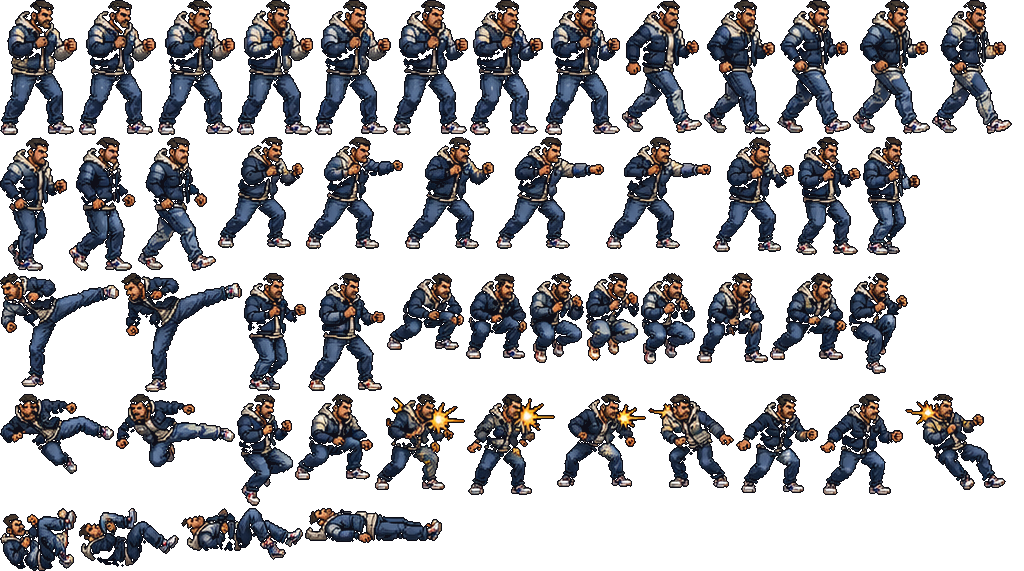
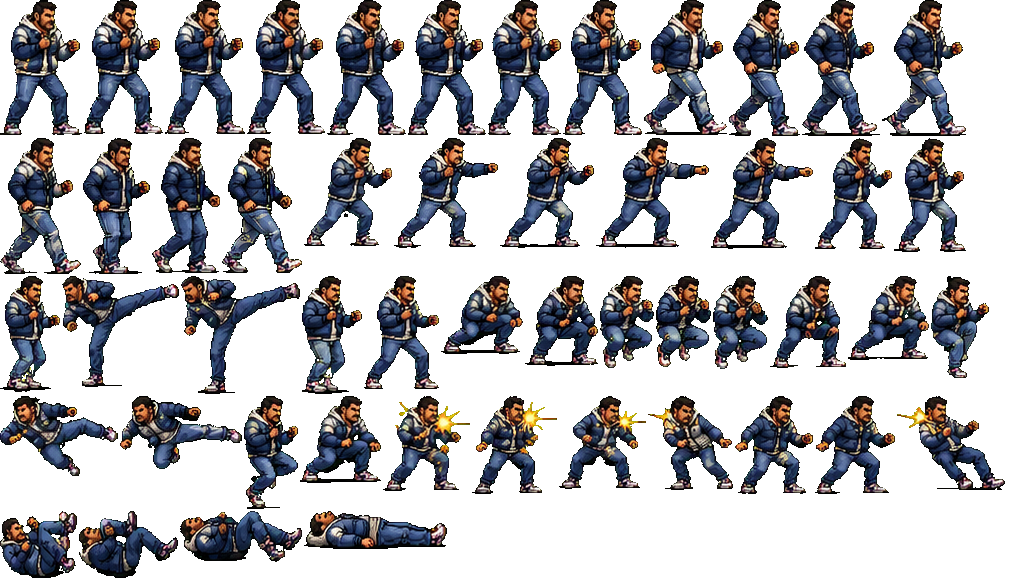
feat: sprites desde las láminas con croma verde (Chapa completo; Ares idle/walk/retrato)

diff --git a/src/render/renderer.ts b/src/render/renderer.ts
@@ -209,6 +209,7 @@ export class Renderer {
     const c = this.ctx, img = this.assets.portrait[id];
     const s = Math.min(img.width, img.height), ox = (img.width - s) / 2;
     c.save(); c.imageSmoothingEnabled = true;
+    c.fillStyle = '#141a33'; c.fillRect(x, y, size, size);
     if (flip) { c.translate(x + size, y); c.scale(-1, 1); c.drawImage(img, ox, 0, s, s, 0, 0, size, size); }
     else c.drawImage(img, ox, 0, s, s, x, y, size, size);
     c.imageSmoothingEnabled = false; c.restore();

diff --git a/tools/extract_sprites.py b/tools/extract_sprites.py
@@ -1,104 +1,130 @@
 """Extrae los frames de las láminas de documentacion/ a atlas transparentes + JSON.
 Uso: python tools/extract_sprites.py [contact_sheet_dir]
 Requiere: pillow, numpy, scipy.
+
+Dos tipos de lámina:
+  - 'chroma': fondo verde croma (preferida, mejor recorte).
+  - 'dark':   fondo azul oscuro (láminas originales).
 """
 import json, sys
 from PIL import Image
 import numpy as np
 from scipy import ndimage as ndi
 
-# regiones (y0, y1, x0, x1, nframes, escala, quitar_chispas) por animación
-SHEETS = {
+SOURCES = {
+    'ares_chroma': ('documentacion/fighter-ares-chroma.png', 'chroma'),
+    'chapa_chroma': ('documentacion/fighter-chapa-chroma.png', 'chroma'),
+    'ares_dark': ('documentacion/fighter-ares.png', 'dark'),
+}
+
+# fila: (fuente, y0, y1, x0, x1, nframes, escala)
+FIGHTERS = {
     'ares': {
-        'src': 'documentacion/fighter-ares.png',
-        'portrait': (20, 84, 234, 294),
-        'scale_low': 1.16,
+        'portrait': ('ares_chroma', 18, 82, 232, 284),
         'rows': {
-            'idle':     (28, 180, 555, 1295, 8, 1.0, False),
-            'walk':     (232, 390, 555, 1300, 8, 1.0, False),
-            'punch':    (535, 668, 20, 640, 6, None, False),
-            'kick':     (535, 668, 670, 1340, 6, None, False),
-            'jump':     (672, 830, 20, 610, 6, None, False),
-            'jumpkick': (700, 830, 670, 1370, 6, None, False),
-            'hit':      (859, 965, 20, 630, 6, None, True),
-            'ko':       (862, 965, 670, 1370, 5, None, True),
+            'idle':     ('ares_chroma', 36, 182, 550, 1300, 8, 1.0),
+            'walk':     ('ares_chroma', 232, 385, 550, 1300, 8, 1.0),
+            # En la lámina croma de Ares solo idle y walk respetan el diseño: en puño/patada aparecen
+            # capucha, manga azul y zapatillas, y en salto/hit/KO lleva la chaqueta azul de Chapa.
+            # Esas filas se mantienen de la lámina original para que no cambie de ropa al pelear.
+            'punch':    ('ares_dark', 535, 668, 20, 640, 6, 1.135),
+            'kick':     ('ares_dark', 535, 668, 670, 1340, 6, 1.135),
+            'jump':     ('ares_dark', 677, 830, 20, 610, 6, 1.135),
+            'jumpkick': ('ares_dark', 700, 830, 670, 1370, 6, 1.135),
+            'hit':      ('ares_dark', 859, 965, 20, 630, 6, 1.135),
+            'ko':       ('ares_dark', 862, 965, 670, 1370, 5, 1.135),
         },
     },
     'chapa': {
-        'src': 'documentacion/fighter-chapa.png',
-        'portrait': (28, 95, 236, 251),
-        'scale_low': 1.2,
+        'portrait': ('chapa_chroma', 18, 88, 246, 262),
         'rows': {
-            'idle':     (45, 192, 555, 1300, 8, 1.0, False),
-            'walk':     (248, 392, 555, 1315, 8, 1.0, False),
-            'punch':    (508, 634, 20, 645, 6, None, False),
-            'kick':     (505, 634, 670, 1340, 6, None, False),
-            'jump':     (650, 800, 20, 610, 6, None, False),
-            'jumpkick': (672, 800, 670, 1370, 6, None, False),
-            'hit':      (848, 958, 20, 630, 6, None, True),
-            'ko':       (850, 958, 670, 1370, 5, None, True),
+            'idle':     ('chapa_chroma', 38, 188, 535, 1305, 8, 1.0),
+            'walk':     ('chapa_chroma', 242, 392, 535, 1315, 8, 1.0),
+            'punch':    ('chapa_chroma', 530, 658, 20, 640, 6, 1.12),
+            'kick':     ('chapa_chroma', 530, 658, 650, 1345, 6, 1.12),
+            'jump':     ('chapa_chroma', 660, 818, 20, 640, 6, 1.12),
+            'jumpkick': ('chapa_chroma', 668, 818, 650, 1370, 6, 1.12),
+            'hit':      ('chapa_chroma', 850, 960, 20, 640, 6, 1.12),
+            'ko':       ('chapa_chroma', 850, 960, 650, 1370, 5, 1.12),
         },
     },
 }
 
-def extract(name, cfg, contact_dir=None):
-    im = np.array(Image.open(cfg['src']).convert('RGB')).astype(np.int32)
-    frames_out = []
-    meta = {'frames': {}, 'anims': {}}
-    for anim, (y0, y1, x0, x1, n, scale, despark) in cfg['rows'].items():
-        if scale is None: scale = cfg['scale_low']
-        reg = im[y0:y1, x0:x1]
-        r, g, b = reg[..., 0], reg[..., 1], reg[..., 2]
-        mx = reg.max(axis=2)
-        fg = (mx > 44) | (b > 37)
-        # líneas de panel / texto fuera: se filtran por tamaño después
-        if despark:
-            spark = (r > 228) & (g > 150) & (b < 105)
-            spark |= (r > 228) & (g > 95) & (b < 60)
-            spark |= (r > 240) & (g > 232) & (b > 150) & (b < 235)
-            fg &= ~spark
-        fg = ndi.binary_opening(fg, iterations=1) | fg  # mantener
-        grow = ndi.binary_dilation(fg, iterations=2)
-        lab, k = ndi.label(grow)
-        areas = ndi.sum(fg, lab, range(1, k + 1))
-        objs = ndi.find_objects(lab)
-        order = np.argsort(areas)[::-1]
-        bodies = sorted([i for i in order[:n]], key=lambda i: objs[i][1].start)
-        if len(bodies) != n or areas[order[n - 1]] < 500:
-            print(f'WARN {name}/{anim}: cuerpos={len(bodies)} areas={sorted(areas)[-n-2:]}')
-        names = []
-        for fi, bi in enumerate(bodies):
-            m = (lab == bi + 1) & fg
+_cache = {}
+def load(src):
+    if src not in _cache:
+        path, mode = SOURCES[src]
+        _cache[src] = (np.array(Image.open(path).convert('RGB')).astype(np.int32), mode)
+    return _cache[src]
+
+def green(reg):
+    r, g, b = reg[..., 0], reg[..., 1], reg[..., 2]
+    return (g > r + 30) & (g > b + 30)
+
+def cut_frames(reg, mode, n, tag):
+    """Devuelve lista de (rgba, ancla_x) ordenada de izquierda a derecha."""
+    r, g, b = reg[..., 0], reg[..., 1], reg[..., 2]
+    if mode == 'chroma':
+        fg = ~green(reg)
+    else:
+        fg = (reg.max(axis=2) > 44) | (b > 37)
+    lab, k = ndi.label(ndi.binary_dilation(fg, iterations=2))
+    areas = ndi.sum(fg, lab, range(1, k + 1))
+    objs = ndi.find_objects(lab)
+    order = np.argsort(areas)[::-1]
+    bodies = sorted(order[:n], key=lambda i: objs[i][1].start)
+    if len(bodies) != n or areas[order[n - 1]] < 500:
+        print(f'WARN {tag}: cuerpos={len(bodies)} areas={sorted(areas)[-n-2:]}')
+    out = []
+    for bi in bodies:
+        m = (lab == bi + 1) & fg
+        if mode == 'dark':
             m = ndi.binary_fill_holes(m)
-            # contorno oscuro de 1px
             outline = ndi.binary_dilation(m, iterations=1) & ~m
             full = m | outline
-            ys, xs = np.where(full)
-            by0, by1, bx0, bx1 = ys.min(), ys.max() + 1, xs.min(), xs.max() + 1
-            sub = reg[by0:by1, bx0:bx1].astype(np.uint8)
-            a = np.zeros(sub.shape[:2], np.uint8)
-            a[full[by0:by1, bx0:bx1]] = 255
-            sub[a == 0] = 0
-            rgba = np.dstack([sub, a])
-            ol = outline[by0:by1, bx0:bx1]
-            rgba[ol, :3] = (12, 12, 22)
-            mm = m[by0:by1, bx0:bx1]
-            dark = mm & (sub.max(axis=2) < 40)
-            rgba[dark, :3] = (14, 14, 24)
-            # ancla: mediana x de la masa, base = pies
-            mxs = np.where(mm)[1]
-            ax = float(np.median(mxs))
+        else:
+            # quitar motas sueltas y el halo verde del borde
+            l2, k2 = ndi.label(m)
+            if k2 > 1:
+                a2 = ndi.sum(m, l2, range(1, k2 + 1))
+                m = np.isin(l2, [i + 1 for i in range(k2) if a2[i] >= 12])
+            outline = np.zeros_like(m)
+            full = m
+        ys, xs = np.where(full)
+        y0, y1, x0, x1 = ys.min(), ys.max() + 1, xs.min(), xs.max() + 1
+        sub = reg[y0:y1, x0:x1].copy()
+        mm = m[y0:y1, x0:x1]
+        if mode == 'chroma':
+            edge = mm & ~ndi.binary_erosion(mm, iterations=2)
+            spill = edge & (sub[..., 1] > np.maximum(sub[..., 0], sub[..., 2]))
+            sub[spill, 1] = np.maximum(sub[..., 0], sub[..., 2])[spill]
+        sub = sub.astype(np.uint8)
+        a = np.zeros(sub.shape[:2], np.uint8)
+        a[full[y0:y1, x0:x1]] = 255
+        sub[a == 0] = 0
+        rgba = np.dstack([sub, a])
+        if mode == 'dark':
+            rgba[outline[y0:y1, x0:x1], :3] = (12, 12, 22)
+            rgba[mm & (sub.max(axis=2) < 40), :3] = (14, 14, 24)
+        out.append((rgba, float(np.median(np.where(mm)[1]))))
+    return out
+
+def extract(name, cfg, contact_dir=None):
+    frames_out = []
+    meta = {'frames': {}, 'anims': {}}
+    for anim, (src, y0, y1, x0, x1, n, scale) in cfg['rows'].items():
+        im, mode = load(src)
+        names = []
+        for fi, (rgba, ax) in enumerate(cut_frames(im[y0:y1, x0:x1], mode, n, f'{name}/{anim}')):
             frames_out.append((f'{anim}_{fi}', rgba, ax, scale))
             names.append(f'{anim}_{fi}')
         meta['anims'][anim] = names
-    # empaquetar atlas en filas
     W = 1024; x = y = rowh = 0; pos = {}
     for fname, rgba, ax, scale in frames_out:
         h, w = rgba.shape[:2]
         if x + w + 2 > W: x = 0; y += rowh + 2; rowh = 0
         pos[fname] = (x, y); x += w + 2; rowh = max(rowh, h)
-    H = y + rowh
-    atlas = Image.new('RGBA', (W, H), (0, 0, 0, 0))
+    atlas = Image.new('RGBA', (W, y + rowh), (0, 0, 0, 0))
     for fname, rgba, ax, scale in frames_out:
         px, py = pos[fname]; h, w = rgba.shape[:2]
         atlas.paste(Image.fromarray(rgba, 'RGBA'), (px, py))
@@ -106,10 +132,14 @@ def extract(name, cfg, contact_dir=None):
     out = f'public/assets/fighters/{name}'
     atlas.save(f'{out}/atlas.png', optimize=True)
     json.dump(meta, open(f'{out}/atlas.json', 'w'))
-    px0, py0, px1, py1 = cfg['portrait']
-    Image.open(cfg['src']).convert('RGB').crop((px0, py0, px1, py1)).save(f'{out}/portrait.png')
+    # retrato con fondo transparente
+    src, px0, py0, px1, py1 = cfg['portrait']
+    im, mode = load(src)
+    reg = im[py0:py1, px0:px1]
+    alpha = np.where(green(reg), 0, 255).astype(np.uint8) if mode == 'chroma' else np.full(reg.shape[:2], 255, np.uint8)
+    rgb = reg.astype(np.uint8); rgb[alpha == 0] = 0
+    Image.fromarray(np.dstack([rgb, alpha]), 'RGBA').save(f'{out}/portrait.png')
     if contact_dir:
-        # hoja de contacto sobre magenta para validar transparencia y anclas
         cs = Image.new('RGB', (1300, 8 * 190), (150, 40, 150))
         for ri, (anim, names) in enumerate(meta['anims'].items()):
             for ci, fname in enumerate(names):
@@ -124,7 +154,7 @@ def extract(name, cfg, contact_dir=None):
 
 if __name__ == '__main__':
     cd = sys.argv[1] if len(sys.argv) > 1 else None
-    for n, c in SHEETS.items():
+    for n, c in FIGHTERS.items():
         extract(n, c, cd)
     bg = Image.open('documentacion/bg-plaza-flores.png').convert('RGB').crop((0, 0, 1536, 872))
     bg.save('public/assets/stages/plaza/bg.webp', quality=90, method=6)

diff --git a/README.md b/README.md
@@ -62,7 +62,7 @@ Añadir un luchador: lámina nueva + entrada en `tools/extract_sprites.py` + ent
 ## Decisiones respecto al plan técnico
 
 - **Canvas 2D propio en lugar de Phaser**: menos peso en móvil, simulación determinista a 60 Hz testeable en Node y cero dependencias de runtime. La arquitectura (escenas, luchador, combate, sistemas, UI) sigue la del plan.
-- **Sprites recortados de las láminas**: el plan pedía no usar las láminas como spritesheet, pero son el único arte disponible. Se recortan frame a frame con transparencia real, ancla en los pies y escala normalizada.
+- **Sprites recortados de las láminas**: el plan pedía no usar las láminas como spritesheet, pero son el único arte disponible. Se recortan frame a frame con transparencia real, ancla en los pies y escala normalizada. Chapa sale entero de la lámina con croma verde (`fighter-chapa-chroma.png`). De la lámina croma de Ares solo se usan idle, walk y el retrato: en el resto de filas el personaje lleva otra ropa, así que esas siguen saliendo de la lámina original.
 
 ## Recursos gráficos pendientes
 
